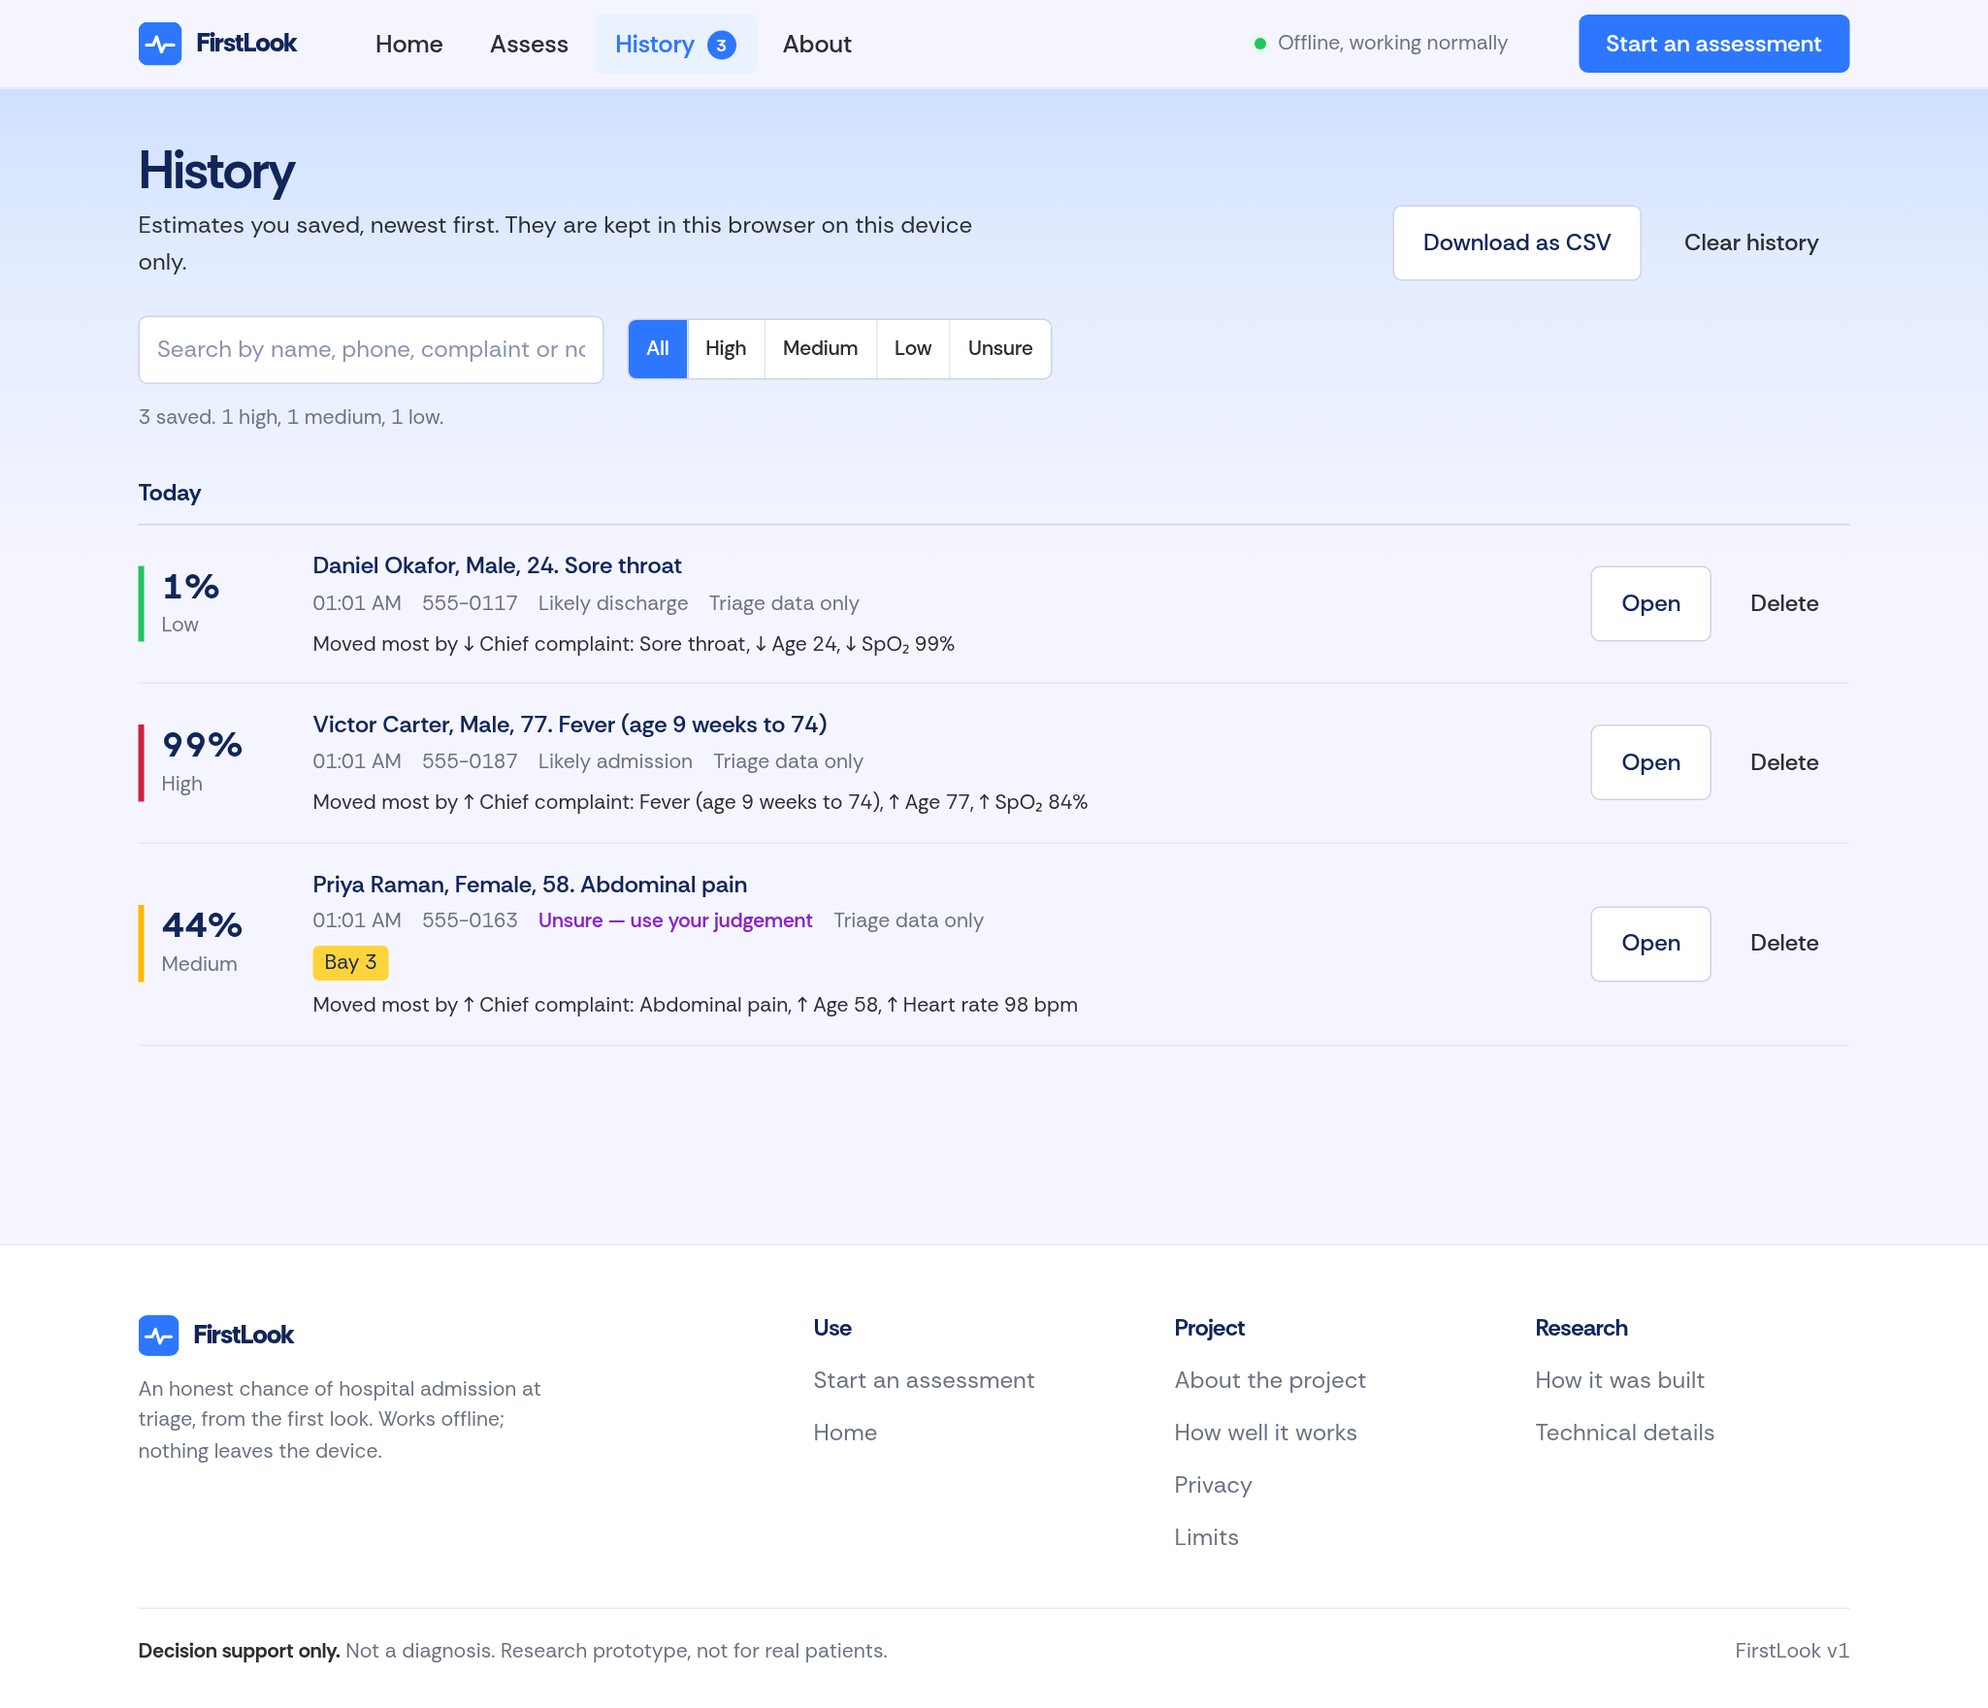
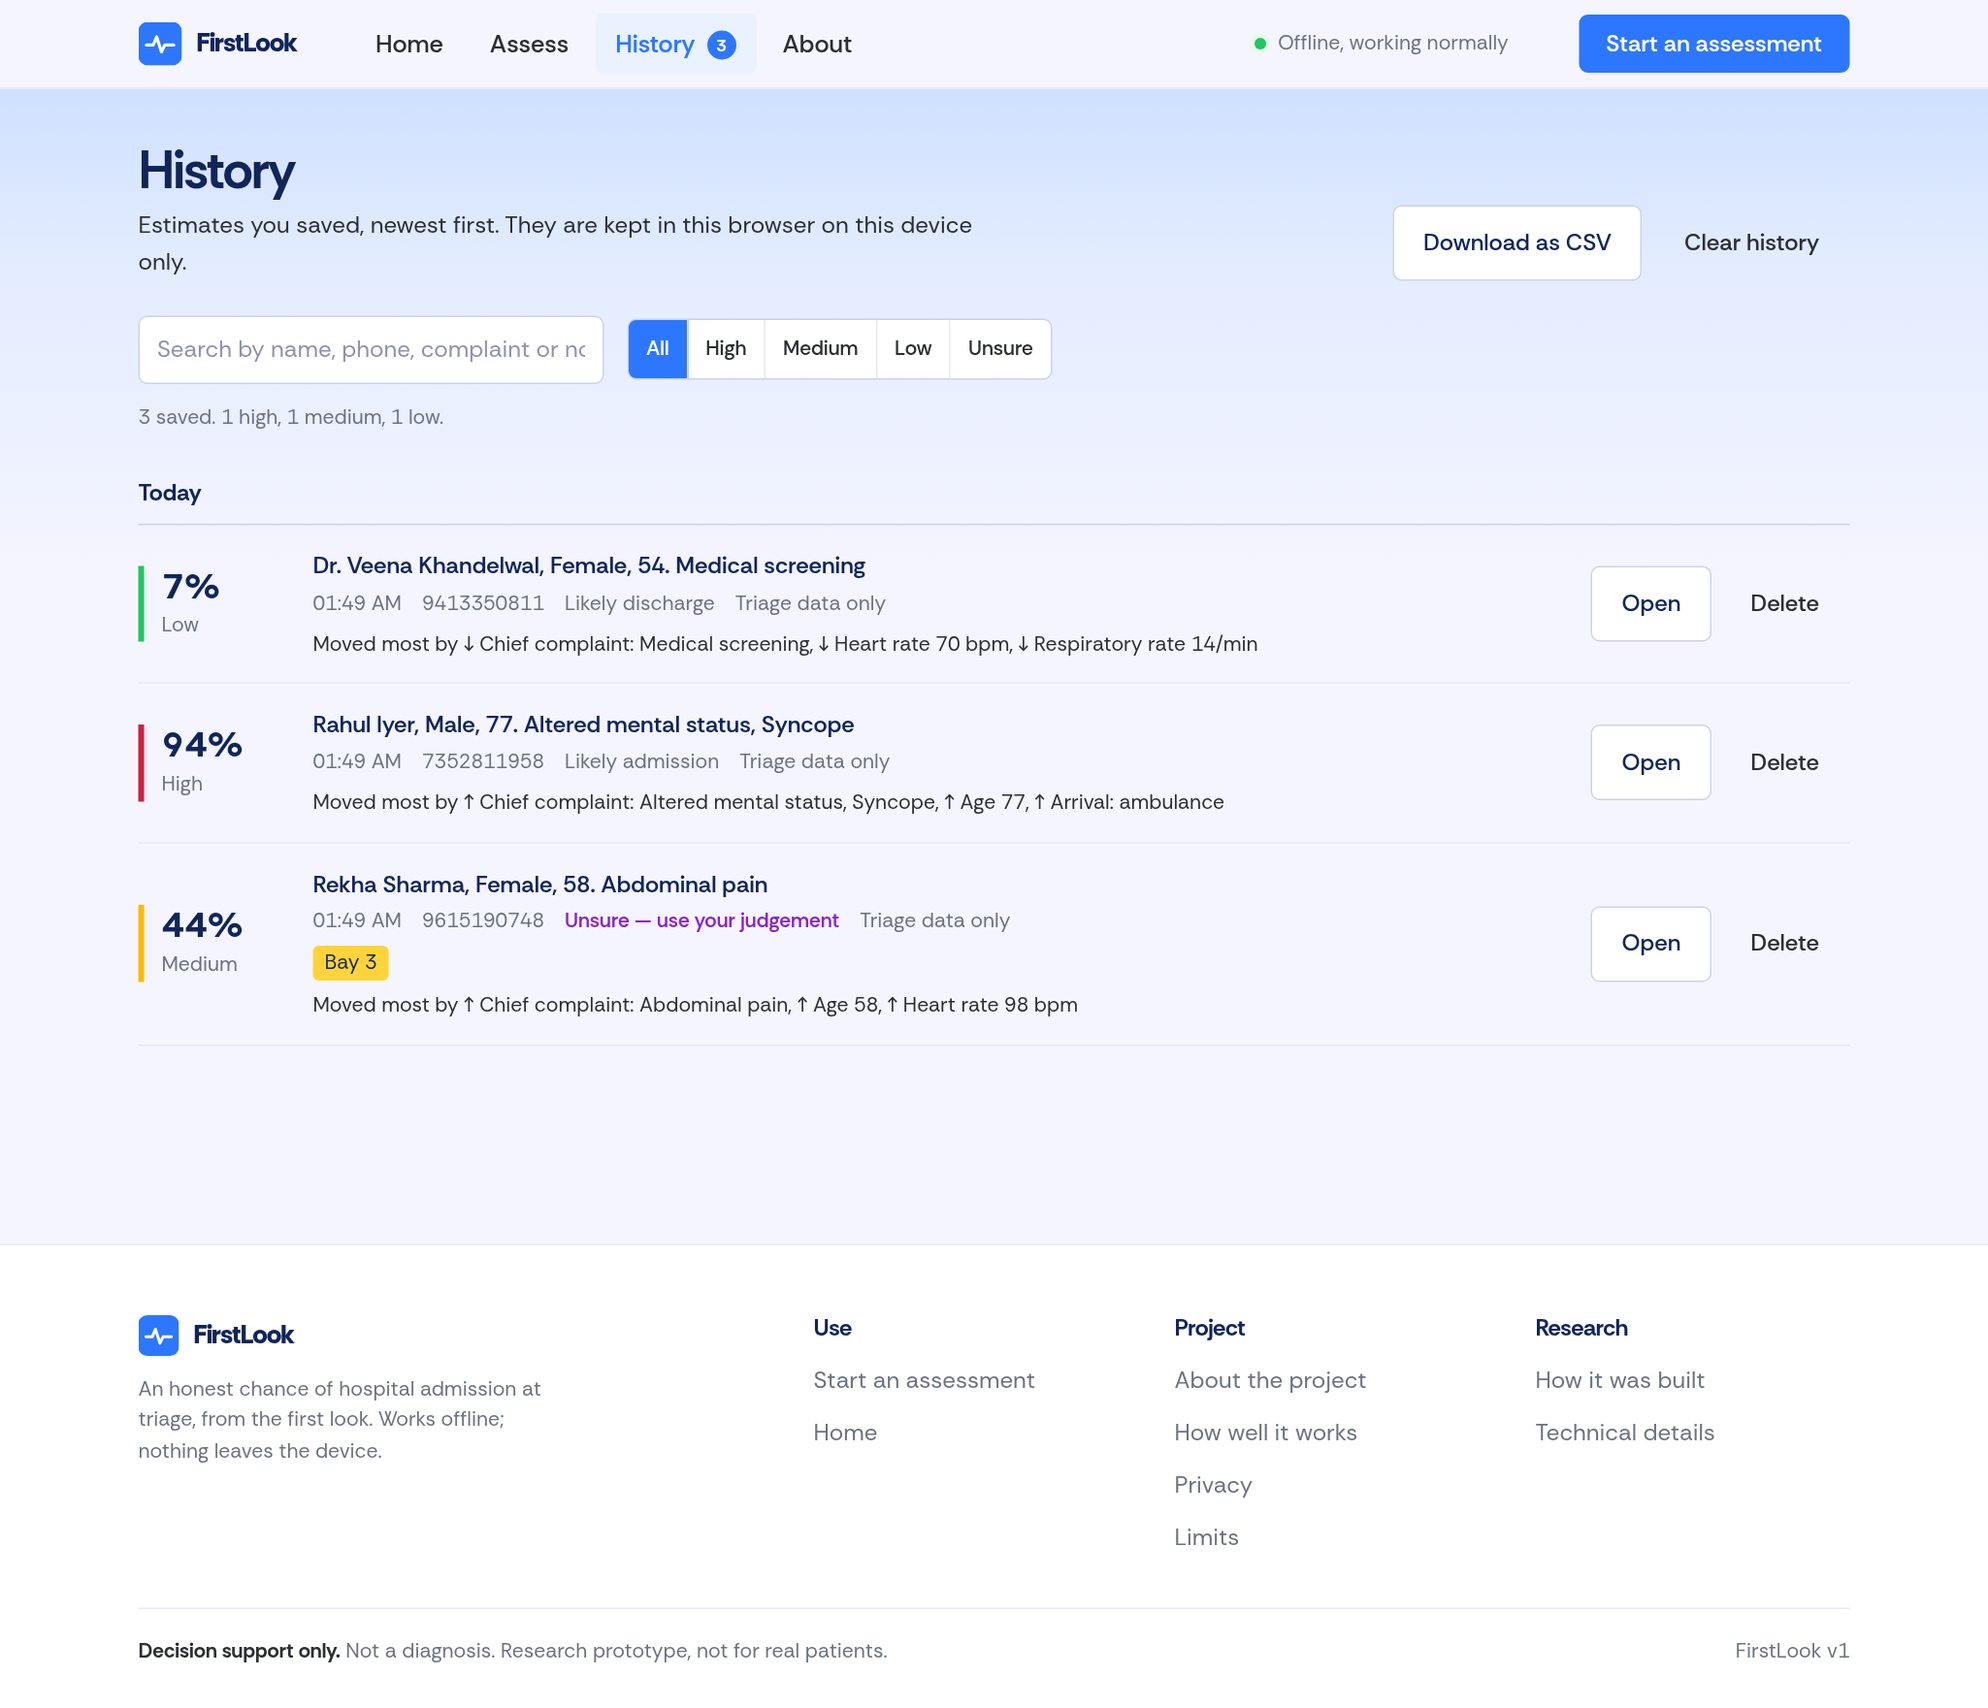
Quick fill: common Indian names, random 10-digit mobiles; international contact numbers
- Contact field validates international numbers (E.164: 7-15 digits, + or 00
  prefix, spaces/dots/dashes/brackets), with a format hint
- Quick fill: Sunita Devi, Dr. Veena Khandelwal (routine screening, ideal
  vitals, low risk), Rekha Sharma, Ramesh Kumar; random patients get common
  Indian names; numbers are random 10-digit mobiles starting 6-9
- Tests for international numbers and quick-fill contacts; figures updated

Claude-Session: https://claude.ai/code/session_01MqjK4GWpR6MpcbTz9AouDq

Changed region(s): [[0.1562, 0.3123, 0.4998, 0.5622], [0.531, 0.3748, 0.5622, 0.406], [0.4373, 0.4685, 0.4685, 0.4997]]

diff --git a/frontend/js/app.js b/frontend/js/app.js
@@ -133,11 +133,13 @@ const formSig = () => JSON.stringify(snapshot());
 const sig = () => JSON.stringify({ f: formSig(), note: $("hnote").value.trim() });
 function hBadge() { const n = hAll().length; $("hcount").textContent = n; $("hcount").hidden = !n; }
 function who(f, name = $("pname").value.trim()) { return `${name ? `${name}, ` : ""}${f.gender ?? "?"}, ${f.age ?? "?"}. ${f.complaints.map((c) => META.complaint_labels[c]).join(", ")}`; }
-/* Invented identities for the sample and random patients. 555-01xx numbers are reserved for fiction. */
-const SAMPLE_ID = { high: ["Margaret Hale", "555-0142"], low: ["Daniel Okafor", "555-0117"], uncertain: ["Priya Raman", "555-0163"], missing_spo2: ["George Whitfield", "555-0188"] };
-const FAKE_FIRST = { Female: ["Anna", "Rosa", "Leela", "Grace", "Nadia", "Helen", "Mei", "Sofia", "Joan", "Amara"], Male: ["Tom", "Arjun", "Samuel", "Luis", "Omar", "Peter", "Kenji", "Victor", "Hugo", "Ben"] };
-const FAKE_LAST = ["Carter", "Iyer", "Novak", "Mensah", "Lindqvist", "Moreau", "Tanaka", "Reyes", "Byrne", "Haddad", "Kowalski", "Fraser"];
-const fakeId = (seed, sex) => [`${FAKE_FIRST[sex ?? "Female"][seed % 10]} ${FAKE_LAST[Math.floor(seed / 10) % FAKE_LAST.length]}`, `555-01${String(seed % 100).padStart(2, "0")}`];
+/* Identities for the sample and random patients. Numbers are random 10-digit Indian-style mobiles (6-9 first), made up
+   each time a patient is loaded; only Dr. Veena Khandelwal's card has a fixed number. */
+const SAMPLE_ID = { high: ["Sunita Devi", null], low: ["Dr. Veena Khandelwal", "9413350811"], uncertain: ["Rekha Sharma", null], missing_spo2: ["Ramesh Kumar", null] };
+const randomMobile = () => { const d = crypto.getRandomValues(new Uint8Array(10)); return `${6 + (d[0] % 4)}${[...d.slice(1)].map((x) => x % 10).join("")}`; };
+const FAKE_FIRST = { Female: ["Ananya", "Lakshmi", "Meera", "Kavya", "Fatima", "Sunita", "Deepa", "Harpreet", "Asha", "Neha"], Male: ["Arjun", "Rahul", "Vikram", "Imran", "Karthik", "Sanjay", "Rajesh", "Manoj", "Gurpreet", "Anil"] };
+const FAKE_LAST = ["Sharma", "Iyer", "Reddy", "Patel", "Khan", "Singh", "Nair", "Das", "Gupta", "Menon", "Joshi", "Rao"];
+const fakeId = (seed, sex) => [`${FAKE_FIRST[sex ?? "Female"][seed % 10]} ${FAKE_LAST[Math.floor(seed / 10) % FAKE_LAST.length]}`, randomMobile()];
 function saveEstimate() {
   if (!last) return false;
   const s = sig(), list = hAll(), r = last.r;
@@ -381,8 +383,9 @@ function fill(f) {
 }
 function load(key) {
   const e = META.examples[key];
-  const [nm, ph] = SAMPLE_ID[key] ?? ["", ""];
-  withUndo(`Loaded ${nm || `“${e.label}”`}.`, () => { fill(e.form); $("pname").value = nm; $("pphone").value = ph; note(`<b>Sample patient: ${esc(e.label)}.</b> Invented for the demo, not a real person.`); });
+  const [nm, fixed] = SAMPLE_ID[key] ?? ["", ""], ph = nm ? fixed ?? randomMobile() : "";
+  withUndo(`Loaded ${nm || `“${e.label}”`}.`, () => { fill(e.form); $("pname").value = nm; $("pphone").value = ph; note(key === "low" ? `<b>Sample patient: ${esc(e.label)}.</b> A routine check-up with ideal readings. The visit is made up for the demo.`
+    : `<b>Sample patient: ${esc(e.label)}.</b> Invented for the demo, not a real person.`); });
 }
 function randomFill() {
   const seed = crypto.getRandomValues(new Uint32Array(1))[0] % 100000, esiOn = radio("esi") !== "";
@@ -408,6 +411,17 @@ function readForm() {
 }
 
 /** Every finding about the form: {field, level: error|warning|missing, msg}. */
+/** International phone numbers (E.164: at most 15 digits including the country code). Accepts "+44 20 7946 0958",
+ *  "0044 20…", "+1 (555) 010-0142", "98450.00000"; separators are spaces, dots, dashes and brackets. */
+function phoneMsg(raw) {
+  const s = raw.trim(); if (!s) return "";
+  if (!/^\+?[\d\s().-]+$/.test(s)) return "Use digits, with spaces, dots, dashes or brackets between them. Start with + for a country code.";
+  if ((s.match(/[()]/g) ?? []).length % 2) return "Check the brackets in the number.";
+  const digits = s.replace(/\D/g, "").replace(/^00/, ""); // 00 is the international prefix in many countries, like +
+  if (digits.length < 7) return "This number is too short. Phone numbers have at least 7 digits.";
+  if (digits.length > 15) return "This number is too long. International numbers have at most 15 digits, including the country code.";
+  return "";
+}
 function findings(f) {
   const out = [];
   for (const d of M.validateFields(f, META)) {
@@ -419,8 +433,8 @@ function findings(f) {
     const v = f[h.key];
     if (h.kind === "count" && v !== null && (v < 0 || !Number.isInteger(v) || v > 500)) out.push({ field: hid(h.key), level: "error", msg: "Enter a whole number from 0 to 500." });
   }
-  const ph = $("pphone").value.trim();
-  if (ph && !/^\+?[\d\s()-]{6,20}$/.test(ph)) out.push({ field: "pphone", level: "error", msg: "Enter a phone number using digits, spaces, + or -." });
+  const pm = phoneMsg($("pphone").value);
+  if (pm) out.push({ field: "pphone", level: "error", msg: pm });
   const order = ["pname", "pphone", "age", "gender", "complaints", ...VITAL.map((v) => v[0])];
   return out.sort((a, b) => (order.indexOf(a.field) + 1 || 99) - (order.indexOf(b.field) + 1 || 99));
 }

diff --git a/frontend/index.html b/frontend/index.html
@@ -165,7 +165,7 @@
     <section class="quick" aria-labelledby="quick-l">
       <div class="quick-head">
         <h2 id="quick-l" class="quick-l">Quick fill</h2>
-        <p class="hint">Sample patients for trying FirstLook. Every name and number is invented.</p>
+        <p class="hint">Sample patients for trying FirstLook. The visits and readings are made up.</p>
       </div>
       <div class="samples" id="examples"></div>
       <div class="rand-row">
@@ -185,7 +185,8 @@
           <input id="pname" name="pname" type="text" maxlength="60" autocomplete="off" spellcheck="false" aria-describedby="err-pname">
           <p class="msg" id="err-pname" hidden></p></div>
         <div class="f"><label class="l" for="pphone">Contact number <span class="opt">optional</span></label>
-          <input id="pphone" name="pphone" type="tel" inputmode="tel" maxlength="20" autocomplete="off" aria-describedby="pphone-help err-pphone">
+          <input id="pphone" name="pphone" type="tel" inputmode="tel" maxlength="24" autocomplete="off" placeholder="+44 20 7946 0958" aria-describedby="pphone-fmt pphone-help err-pphone">
+          <p class="hint" id="pphone-fmt">Any country. Start with + and the country code, e.g. +91.</p>
           <p class="msg" id="err-pphone" hidden></p></div>
         <p class="hint ident-help" id="pphone-help">Kept with the saved estimate on this device only. FirstLook doesn’t use them to work out the estimate.</p>
       </div>

diff --git a/frontend/css/app.css b/frontend/css/app.css
@@ -93,7 +93,7 @@ main { outline: none; background: linear-gradient(180deg, var(--sky) 0, #e3ecff 
 .rand-row { display: flex; flex-wrap: wrap; align-items: center; gap: 8px 12px; padding-top: 12px; border-top: 1px solid var(--brand-line); }
 .rand-l { font-size: var(--step--1); font-weight: 600; color: var(--ink); }
 .rand-row .btn { margin-left: auto; }
-.ident { display: grid; grid-template-columns: minmax(0, 1fr) minmax(0, 16rem); gap: 0 24px; margin-bottom: 14px; }
+.ident { display: grid; grid-template-columns: minmax(0, 1fr) minmax(0, 21rem); gap: 0 24px; margin-bottom: 14px; }
 .ident input { width: 100%; }
 .ident-help { grid-column: 1 / -1; margin-top: -4px; }
 .opt { font-weight: 400; font-size: var(--step--1); color: var(--muted); margin-left: 6px; }

diff --git a/frontend/sw.js b/frontend/sw.js
@@ -1,6 +1,6 @@
 /* FirstLook service worker: cache-first for the app shell, everything local. Bump CACHE when assets change.
    api/ requests (the optional local backend) always go to the network and are never cached. */
-const CACHE = "firstlook-v26";
+const CACHE = "firstlook-v32";
 const ASSETS = ["./", "index.html", "css/app.css", "js/model.js", "js/charts.js", "js/app.js", "data/models.json", "data/dashboard.json",
   "manifest.webmanifest", "icon.svg",
   "fonts/atkinson-next-latin.woff2", "fonts/atkinson-next-latin-ext.woff2",

diff --git a/tests/test_pwa_ux.py b/tests/test_pwa_ux.py
@@ -110,7 +110,7 @@ def test_assess_and_result_are_separate_pages(page):
     assert pct(page) == 44 and page.inner_text("#conftitle").startswith("Unsure")
     assert "44% chance of admission" in page.title()
     assert page.get_attribute("nav a[data-p=assess]", "aria-current") == "page"
-    assert page.inner_text("#res-who").startswith("Priya Raman, Female, 58. Abdominal pain")
+    assert page.inner_text("#res-who").startswith("Rekha Sharma, Female, 58. Abdominal pain")
     page.click("#res-edit"); page.wait_for_selector("#assess:not([hidden])")
     page.fill("#age", "90"); show(page)
     assert pct(page) != 44
@@ -147,7 +147,7 @@ def test_clear_offers_undo(page):
     page.click("#clear")
     assert page.input_value("#age") == "" and page.is_visible("#toast") and page.get_attribute("#needs", "data-state") == "empty"
     page.click("#undo")
-    assert page.input_value("#age") == "24" and not page.is_visible("#toast")
+    assert page.input_value("#age") == "54" and not page.is_visible("#toast")
 
 
 def test_skip_link_focuses_content_and_keeps_the_page(page):
@@ -322,7 +322,8 @@ def test_history_delete_clear_undo_csv_and_persistence(page):
 
 def test_name_and_contact_are_optional_validated_and_saved(page):
     example(page, "High risk")  # sample patients come with an invented name and a 555-01xx number
-    assert page.input_value("#pname") == "Margaret Hale" and page.input_value("#pphone") == "555-0142"
+    ph = page.input_value("#pphone")
+    assert page.input_value("#pname") == "Sunita Devi" and len(ph) == 10 and ph[0] in "6789"
     page.fill("#pname", ""); page.fill("#pphone", "")
     page.wait_for_selector("#needs[data-state=ready]")  # neither is required
     page.fill("#pphone", "call me"); page.focus("#age")
@@ -338,11 +339,30 @@ def test_name_and_contact_are_optional_validated_and_saved(page):
     assert '"\'=HYPERLINK(1)","+91 98450 00000"' in rows[1]  # a typed formula is neutralised; a phone number is not
 
 
+def test_every_quick_fill_contact_is_10_digits(page):
+    for card in page.locator("#examples button").all():
+        card.click(); ph = page.input_value("#pphone")
+        assert len(ph) == 10 and ph.isdigit() and ph[0] in "6789", ph
+    page.locator("#examples button", has_text="High risk").click(); a = page.input_value("#pphone")
+    page.locator("#examples button", has_text="High risk").click(); assert page.input_value("#pphone") != a  # randomised
+    page.locator("#examples button", has_text="Veena").click(); assert page.input_value("#pphone") == "9413350811"
+
+
 def test_random_patient_gets_an_invented_identity_matching_sex(page):
     page.click("#random"); page.wait_for_selector("#needs[data-state=ready]")
     sex = page.evaluate("document.querySelector('input[name=gender]:checked').value")
     name, phone = page.input_value("#pname"), page.input_value("#pphone")
-    assert name and phone.startswith("555-01")
+    assert name and len(phone) == 10 and phone.isdigit() and phone[0] in "6789"
     first = name.split()[0]
-    assert first in (["Anna", "Rosa", "Leela", "Grace", "Nadia", "Helen", "Mei", "Sofia", "Joan", "Amara"] if sex == "Female"
-                     else ["Tom", "Arjun", "Samuel", "Luis", "Omar", "Peter", "Kenji", "Victor", "Hugo", "Ben"])
+    assert first in (["Ananya", "Lakshmi", "Meera", "Kavya", "Fatima", "Sunita", "Deepa", "Harpreet", "Asha", "Neha"] if sex == "Female"
+                     else ["Arjun", "Rahul", "Vikram", "Imran", "Karthik", "Sanjay", "Rajesh", "Manoj", "Gurpreet", "Anil"])
+
+
+@pytest.mark.parametrize("number,ok", [
+    ("+91 98450 00000", True), ("+44 20 7946 0958", True), ("+1 (555) 010-0142", True), ("0044 20 7946 0958", True),
+    ("+81 3-1234-5678", True), ("+61.2.5550.1234", True), ("555-0142", True), ("+971 4 123 4567", True),
+    ("12345", False), ("+1234567890123456", False), ("+91 98450 0000x", False), ("98+450", False), ("+44 (20 7946 0958", False),
+])
+def test_contact_accepts_international_numbers(page, number, ok):
+    page.fill("#pphone", number); page.focus("#age")
+    until(lambda: page.is_visible("#err-pphone") != ok)

diff --git a/app/examples.py b/app/examples.py
@@ -17,11 +17,11 @@ EXAMPLES = {
     },
     "low": {
         "label": "Low risk",
-        "hint": "24 y, walk-in, sore throat, normal vitals",
-        "form": {"age": 24, "gender": "Male", "arrivalmode": "Walk-in", "arrivalhour_bin": "15-18",
-                 "triage_vital_hr": 78, "triage_vital_sbp": 122, "triage_vital_dbp": 76, "triage_vital_rr": 16,
-                 "triage_vital_o2": 99, "triage_vital_o2_device": 0, "triage_vital_temp": 98.6,
-                 "complaints": ["cc_sorethroat"]},
+        "hint": "54 y, walk-in, routine medical screening, ideal vitals",
+        "form": {"age": 54, "gender": "Female", "arrivalmode": "Walk-in", "arrivalhour_bin": "07-10",
+                 "triage_vital_hr": 70, "triage_vital_sbp": 116, "triage_vital_dbp": 74, "triage_vital_rr": 14,
+                 "triage_vital_o2": 99, "triage_vital_o2_device": 0, "triage_vital_temp": 98.4,
+                 "complaints": ["cc_medicalscreening"]},
     },
     "uncertain": {
         "label": "Uncertain",
